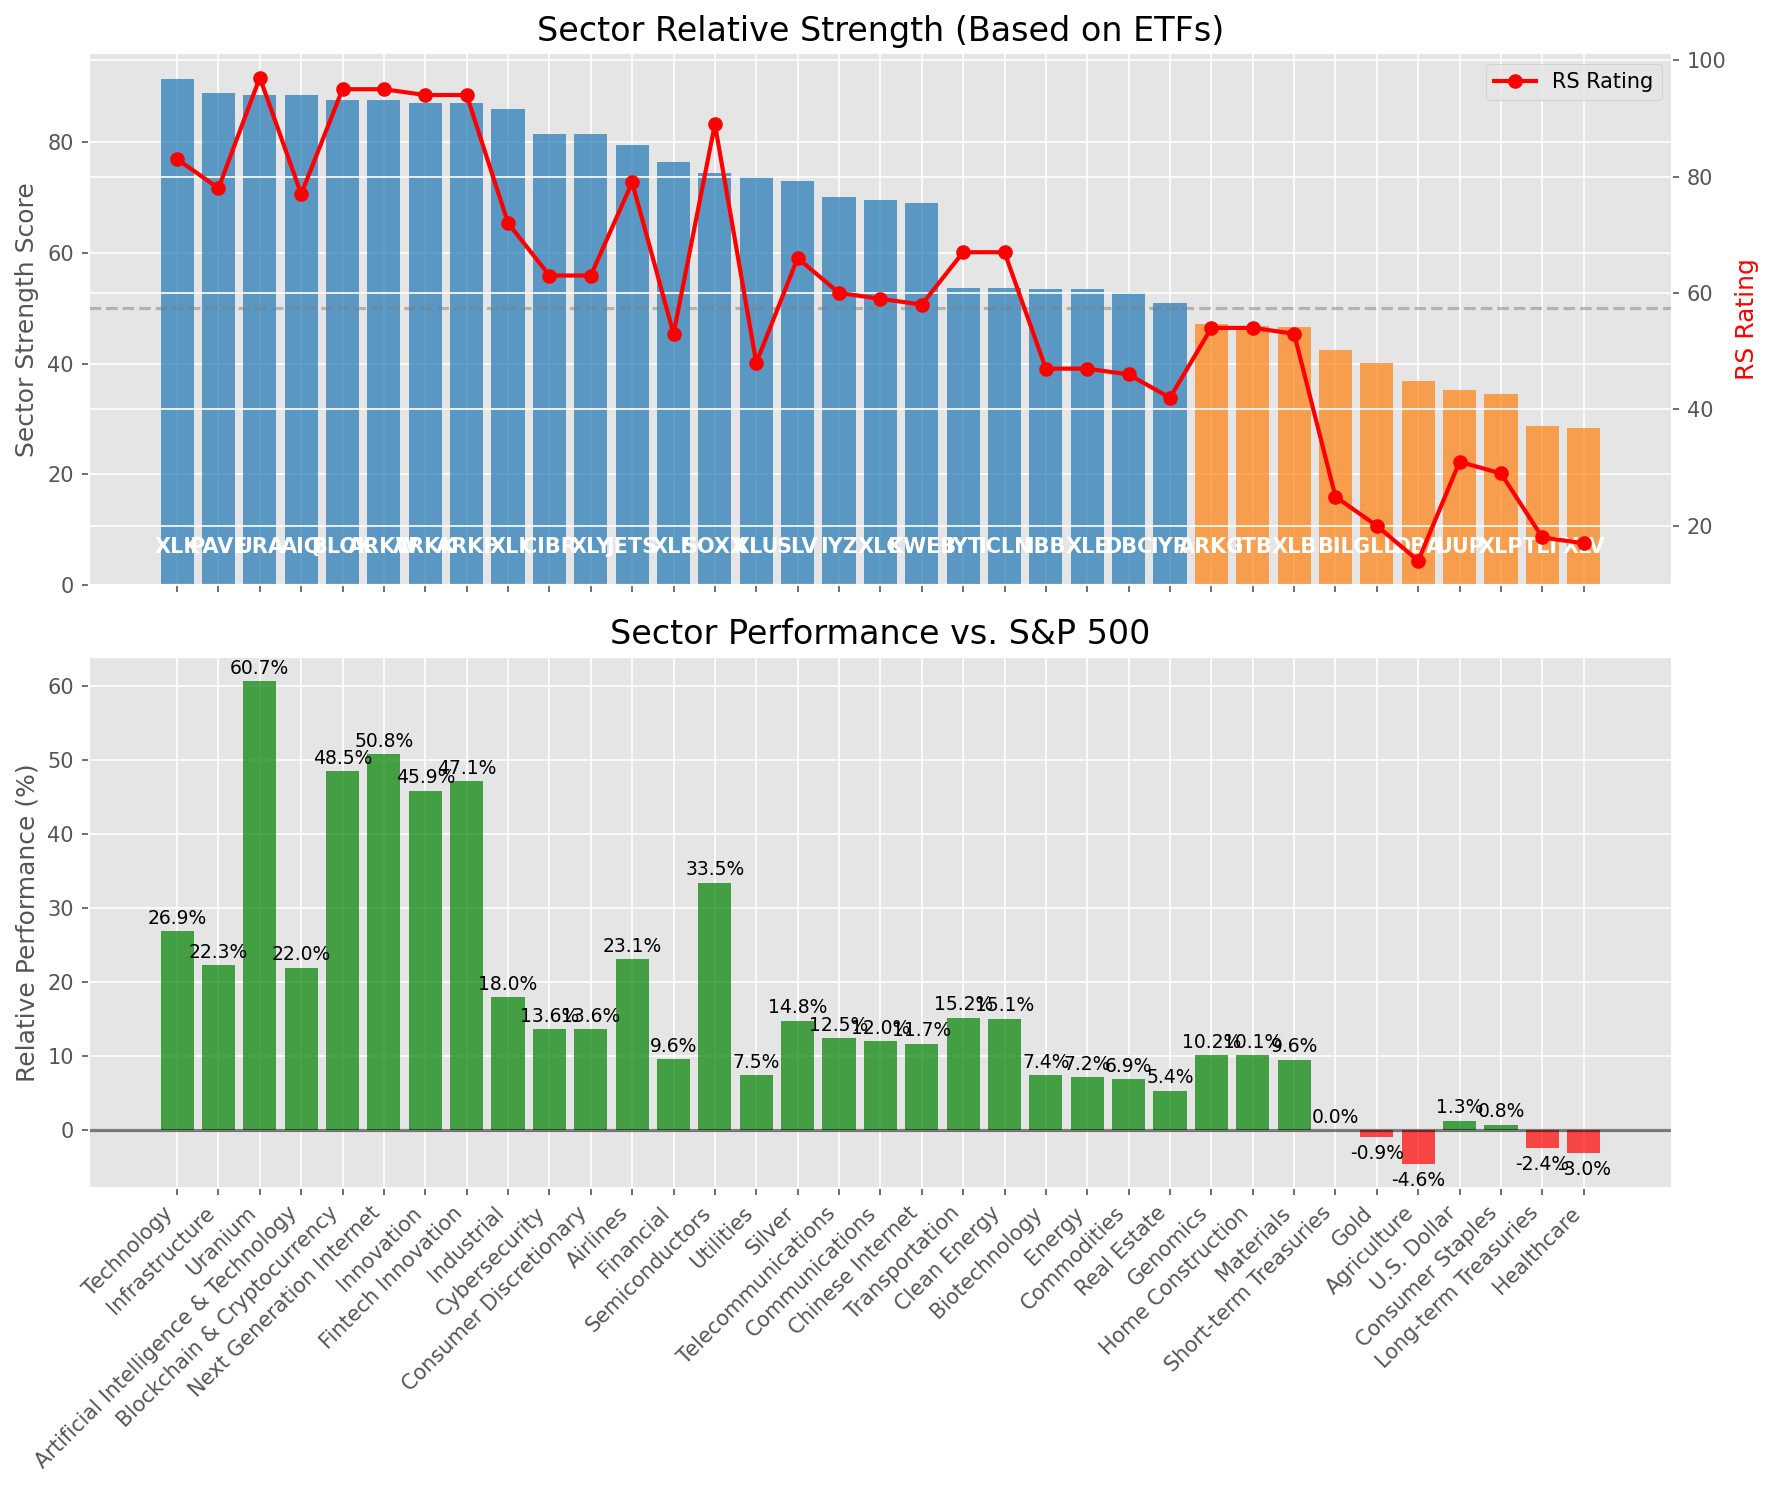
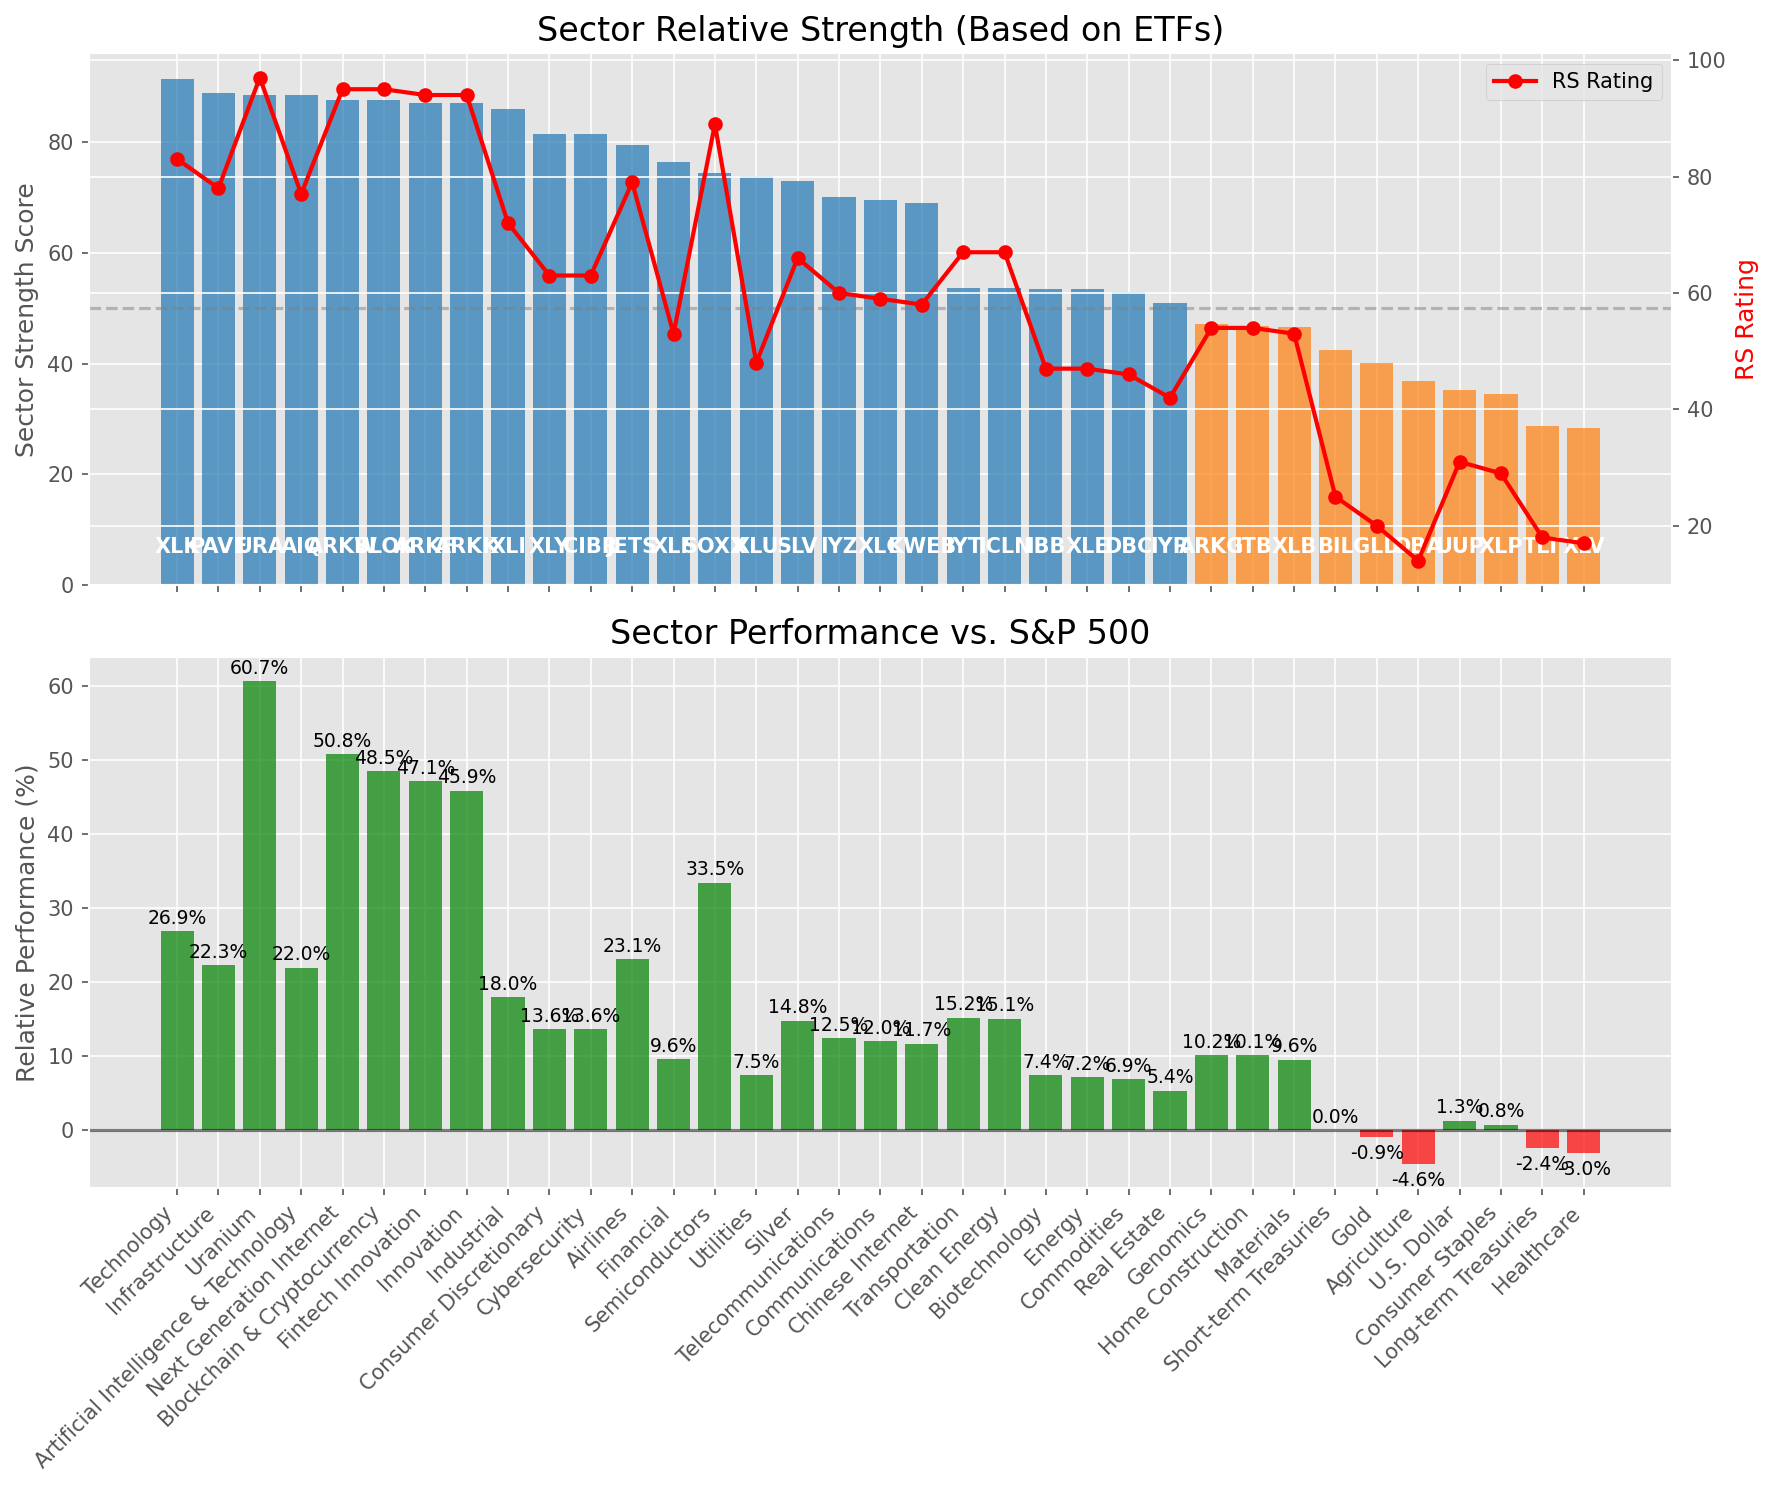
Add market report for 2025-07-29

diff --git a/oneil_relative_strength_report_2025-07-29.md b/oneil_relative_strength_report_2025-07-29.md
@@ -53,13 +53,13 @@ Based on William O'Neil's Relative Strength Methodology
 | [PAVE](https://www.tradingview.com/chart/?symbol=PAVE) | 89.0 | 78.0 | 22.25% | 10d ✓, 50d ✓, 200d ✓ | ↗ | Infrastructure |
 | [URA](https://www.tradingview.com/chart/?symbol=URA) | 88.6 | 97.0 | 60.68% | 10d ✗, 50d ✓, 200d ✓ | ↗ | Uranium |
 | [AIQ](https://www.tradingview.com/chart/?symbol=AIQ) | 88.5 | 77.0 | 21.96% | 10d ✓, 50d ✓, 200d ✓ | ↗ | Artificial Intelligence & Technology |
-| [BLOK](https://www.tradingview.com/chart/?symbol=BLOK) | 87.6 | 95.0 | 48.50% | 10d ✗, 50d ✓, 200d ✓ | ↗ | Blockchain & Cryptocurrency |
 | [ARKW](https://www.tradingview.com/chart/?symbol=ARKW) | 87.6 | 95.0 | 50.78% | 10d ✗, 50d ✓, 200d ✓ | ↗ | Next Generation Internet |
-| [ARKK](https://www.tradingview.com/chart/?symbol=ARKK) | 87.1 | 94.0 | 45.86% | 10d ✗, 50d ✓, 200d ✓ | ↗ | Innovation |
+| [BLOK](https://www.tradingview.com/chart/?symbol=BLOK) | 87.6 | 95.0 | 48.50% | 10d ✗, 50d ✓, 200d ✓ | ↗ | Blockchain & Cryptocurrency |
 | [ARKF](https://www.tradingview.com/chart/?symbol=ARKF) | 87.1 | 94.0 | 47.13% | 10d ✗, 50d ✓, 200d ✓ | ↗ | Fintech Innovation |
+| [ARKK](https://www.tradingview.com/chart/?symbol=ARKK) | 87.1 | 94.0 | 45.86% | 10d ✗, 50d ✓, 200d ✓ | ↗ | Innovation |
 | [XLI](https://www.tradingview.com/chart/?symbol=XLI) | 86.0 | 72.0 | 18.01% | 10d ✓, 50d ✓, 200d ✓ | ↗ | Industrial |
-| [CIBR](https://www.tradingview.com/chart/?symbol=CIBR) | 81.5 | 63.0 | 13.64% | 10d ✓, 50d ✓, 200d ✓ | ↗ | Cybersecurity |
 | [XLY](https://www.tradingview.com/chart/?symbol=XLY) | 81.5 | 63.0 | 13.63% | 10d ✓, 50d ✓, 200d ✓ | ↗ | Consumer Discretionary |
+| [CIBR](https://www.tradingview.com/chart/?symbol=CIBR) | 81.5 | 63.0 | 13.64% | 10d ✓, 50d ✓, 200d ✓ | ↗ | Cybersecurity |
 | [JETS](https://www.tradingview.com/chart/?symbol=JETS) | 79.6 | 79.0 | 23.10% | 10d ✗, 50d ✓, 200d ✓ | ↗ | Airlines |
 | [XLF](https://www.tradingview.com/chart/?symbol=XLF) | 76.5 | 53.0 | 9.61% | 10d ✓, 50d ✓, 200d ✓ | ↗ | Financial |
 | [SOXX](https://www.tradingview.com/chart/?symbol=SOXX) | 74.5 | 89.0 | 33.45% | 10d ✓, 50d ✓, 200d ✓ | ↘ | Semiconductors |
@@ -110,18 +110,18 @@ The following 48 stocks show exceptional relative strength:
 
 | RS Rating | Buy Score | Current Price | Chart | Name | Ticker |
 |-----------|-----------|---------------|-------|------|--------|
-| 100 | 100 | $60.27 | [Chart](https://www.tradingview.com/chart/?symbol=HIMS) | Hims & Hers Health, Inc. | HIMS |
-| 100 | 100 | $220.23 | [Chart](https://www.tradingview.com/chart/?symbol=DAVE) | Dave Inc. Class A Common Stock | DAVE |
-| 100 | 100 | $48.52 | [Chart](https://www.tradingview.com/chart/?symbol=TTMI) | TTM Technologies Inc | TTMI |
 | 100 | 100 | $202.00 | [Chart](https://www.tradingview.com/chart/?symbol=CLS) | Celestica, Inc. | CLS |
 | 100 | 100 | $142.41 | [Chart](https://www.tradingview.com/chart/?symbol=SEZL) | Sezzle Inc. Common Stock | SEZL |
+| 100 | 100 | $60.27 | [Chart](https://www.tradingview.com/chart/?symbol=HIMS) | Hims & Hers Health, Inc. | HIMS |
+| 100 | 100 | $48.52 | [Chart](https://www.tradingview.com/chart/?symbol=TTMI) | TTM Technologies Inc | TTMI |
+| 100 | 100 | $220.23 | [Chart](https://www.tradingview.com/chart/?symbol=DAVE) | Dave Inc. Class A Common Stock | DAVE |
 | 99 | 100 | $75.90 | [Chart](https://www.tradingview.com/chart/?symbol=LIF) | Life360, Inc. Common Stock | LIF |
 | 98 | 100 | $361.21 | [Chart](https://www.tradingview.com/chart/?symbol=TLN) | Talen Energy Corporation Common Stock | TLN |
-| 98 | 100 | $632.67 | [Chart](https://www.tradingview.com/chart/?symbol=GEV) | GE Vernova Inc. | GEV |
 | 98 | 100 | $24.74 | [Chart](https://www.tradingview.com/chart/?symbol=CPS) | Cooper-Standard Automotive Inc. | CPS |
-| 97 | 100 | $34.65 | [Chart](https://www.tradingview.com/chart/?symbol=ATRO) | Astronics Corp | ATRO |
-| 97 | 100 | $199.43 | [Chart](https://www.tradingview.com/chart/?symbol=NET) | Cloudflare, Inc. Class A common stock, par value $0.001 per share | NET |
+| 98 | 100 | $632.67 | [Chart](https://www.tradingview.com/chart/?symbol=GEV) | GE Vernova Inc. | GEV |
 | 97 | 100 | $230.38 | [Chart](https://www.tradingview.com/chart/?symbol=JBL) | Jabil Inc. | JBL |
+| 97 | 100 | $199.43 | [Chart](https://www.tradingview.com/chart/?symbol=NET) | Cloudflare, Inc. Class A common stock, par value $0.001 per share | NET |
+| 97 | 100 | $34.65 | [Chart](https://www.tradingview.com/chart/?symbol=ATRO) | Astronics Corp | ATRO |
 | 97 | 100 | $38.34 | [Chart](https://www.tradingview.com/chart/?symbol=AS) | Amer Sports, Inc. | AS |
 | 97 | 100 | $238.15 | [Chart](https://www.tradingview.com/chart/?symbol=AGX) | Argan, Inc | AGX |
 | 96 | 100 | $105.17 | [Chart](https://www.tradingview.com/chart/?symbol=VRNA) | Verona Pharma plc | VRNA |
@@ -132,15 +132,15 @@ The following 48 stocks show exceptional relative strength:
 | 93 | 100 | $22.30 | [Chart](https://www.tradingview.com/chart/?symbol=MIR) | Mirion Technologies, Inc. | MIR |
 | 92 | 100 | $58.50 | [Chart](https://www.tradingview.com/chart/?symbol=VIK) | Viking Holdings Ltd | VIK |
 | 91 | 100 | $105.31 | [Chart](https://www.tradingview.com/chart/?symbol=APH) | Amphenol Corporation | APH |
-| 91 | 100 | $159.71 | [Chart](https://www.tradingview.com/chart/?symbol=COOP) | Mr. Cooper Group Inc. Common Stock | COOP |
-| 91 | 100 | $42.39 | [Chart](https://www.tradingview.com/chart/?symbol=LTM) | LATAM Airlines Group S.A. American Depositary Shares (each representing two thousand (2,000) shares of Common Stock) | LTM |
 | 91 | 100 | $189.17 | [Chart](https://www.tradingview.com/chart/?symbol=HWM) | Howmet Aerospace Inc. | HWM |
+| 91 | 100 | $42.39 | [Chart](https://www.tradingview.com/chart/?symbol=LTM) | LATAM Airlines Group S.A. American Depositary Shares (each representing two thousand (2,000) shares of Common Stock) | LTM |
+| 91 | 100 | $159.71 | [Chart](https://www.tradingview.com/chart/?symbol=COOP) | Mr. Cooper Group Inc. Common Stock | COOP |
 | 91 | 100 | $94.48 | [Chart](https://www.tradingview.com/chart/?symbol=C) | Citigroup Inc. | C |
-| 90 | 100 | $156.24 | [Chart](https://www.tradingview.com/chart/?symbol=PLTR) | Palantir Technologies Inc. Class A Common Stock | PLTR |
 | 90 | 100 | $48.55 | [Chart](https://www.tradingview.com/chart/?symbol=TOST) | Toast, Inc. | TOST |
+| 90 | 100 | $156.24 | [Chart](https://www.tradingview.com/chart/?symbol=PLTR) | Palantir Technologies Inc. Class A Common Stock | PLTR |
 | 90 | 100 | $19.26 | [Chart](https://www.tradingview.com/chart/?symbol=LQDA) | Liquidia Corporation Common Stock | LQDA |
-| 89 | 100 | $270.31 | [Chart](https://www.tradingview.com/chart/?symbol=GE) | GE Aerospace | GE |
 | 89 | 100 | $79.68 | [Chart](https://www.tradingview.com/chart/?symbol=TPB) | Turning Point Brands, Inc. | TPB |
+| 89 | 100 | $270.31 | [Chart](https://www.tradingview.com/chart/?symbol=GE) | GE Aerospace | GE |
 | 87 | 99 | $48.20 | [Chart](https://www.tradingview.com/chart/?symbol=DRS) | Leonardo DRS, Inc. Common Stock | DRS |
 | 88 | 98 | $184.66 | [Chart](https://www.tradingview.com/chart/?symbol=AWI) | Armstrong World Industries, Inc. | AWI |
 | 85 | 98 | $33.09 | [Chart](https://www.tradingview.com/chart/?symbol=DB) | Deutsche Bank Aktiengesellschaft | DB |
@@ -148,14 +148,14 @@ The following 48 stocks show exceptional relative strength:
 | 85 | 96 | $46.32 | [Chart](https://www.tradingview.com/chart/?symbol=BBIO) | BridgeBio Pharma, Inc. Common Stock | BBIO |
 | 82 | 96 | $20.05 | [Chart](https://www.tradingview.com/chart/?symbol=BCS) | Barclays PLC | BCS |
 | 84 | 94 | $95.83 | [Chart](https://www.tradingview.com/chart/?symbol=NDAQ) | Nasdaq, Inc. Common Stock | NDAQ |
-| 83 | 94 | $287.23 | [Chart](https://www.tradingview.com/chart/?symbol=VEEV) | Veeva Systems Inc. | VEEV |
 | 83 | 94 | $197.23 | [Chart](https://www.tradingview.com/chart/?symbol=ITA) | iShares U.S. Aerospace & Defense ETF | ITA |
+| 83 | 94 | $287.23 | [Chart](https://www.tradingview.com/chart/?symbol=VEEV) | Veeva Systems Inc. | VEEV |
 | 82 | 93 | $72.39 | [Chart](https://www.tradingview.com/chart/?symbol=ULS) | UL Solutions Inc. | ULS |
 | 81 | 93 | $52.77 | [Chart](https://www.tradingview.com/chart/?symbol=BTI) | British American Tobacco p.l.c. American Depositary Shares, American Depositary Shares, each representing one Ordinary Share | BTI |
 | 81 | 93 | $434.48 | [Chart](https://www.tradingview.com/chart/?symbol=CYBR) | CyberArk Software Ltd. | CYBR |
 | 81 | 92 | $40.51 | [Chart](https://www.tradingview.com/chart/?symbol=ZLAB) | Zai Lab Limited American Depositary Shares | ZLAB |
-| 80 | 92 | $390.67 | [Chart](https://www.tradingview.com/chart/?symbol=LPLA) | LPL Financial Holdings Inc. | LPLA |
 | 80 | 92 | $141.80 | [Chart](https://www.tradingview.com/chart/?symbol=VSEC) | VSE Corp | VSEC |
+| 80 | 92 | $390.67 | [Chart](https://www.tradingview.com/chart/?symbol=LPLA) | LPL Financial Holdings Inc. | LPLA |
 | 80 | 90 | $85.74 | [Chart](https://www.tradingview.com/chart/?symbol=BYD) | Boyd Gaming Corporation | BYD |
 | 80 | 90 | $49.34 | [Chart](https://www.tradingview.com/chart/?symbol=FHI) | Federated Hermes, Inc. | FHI |
 
@@ -170,21 +170,21 @@ The following 80 stocks show deteriorating relative strength:
 |-----------|------------|---------------|-------|------|--------|
 | 1 | 100 | $23.70 | [Chart](https://www.tradingview.com/chart/?symbol=TECS) | Direxion Daily Technology Bear 3x Shares | TECS |
 | 1 | 100 | $12.29 | [Chart](https://www.tradingview.com/chart/?symbol=NVDS) | Investment Managers Series Trust II Tradr 1.5X Short NVDA Daily ETF | NVDS |
+| 2 | 100 | $54.04 | [Chart](https://www.tradingview.com/chart/?symbol=GMED) | GLOBUS MEDICAL INC | GMED |
+| 2 | 100 | $14.49 | [Chart](https://www.tradingview.com/chart/?symbol=CLBT) | Cellebrite DI Ltd. Class A Ordinary Shares | CLBT |
 | 2 | 100 | $40.67 | [Chart](https://www.tradingview.com/chart/?symbol=TWM) | ProShares UltraShort Russell2000 | TWM |
 | 2 | 100 | $40.17 | [Chart](https://www.tradingview.com/chart/?symbol=SDOW) | ProShares UltraPro Short Dow 30 | SDOW |
 | 2 | 100 | $72.20 | [Chart](https://www.tradingview.com/chart/?symbol=LNTH) | Lantheus Holdings, Inc | LNTH |
-| 2 | 100 | $54.04 | [Chart](https://www.tradingview.com/chart/?symbol=GMED) | GLOBUS MEDICAL INC | GMED |
 | 2 | 100 | $17.80 | [Chart](https://www.tradingview.com/chart/?symbol=GPCR) | Structure Therapeutics Inc. American Depositary Shares | GPCR |
-| 2 | 100 | $14.49 | [Chart](https://www.tradingview.com/chart/?symbol=CLBT) | Cellebrite DI Ltd. Class A Ordinary Shares | CLBT |
+| 3 | 100 | $48.13 | [Chart](https://www.tradingview.com/chart/?symbol=SLVM) | Sylvamo Corporation | SLVM |
 | 3 | 100 | $64.46 | [Chart](https://www.tradingview.com/chart/?symbol=SKY) | Champion Homes, Inc. | SKY |
 | 3 | 100 | $14.71 | [Chart](https://www.tradingview.com/chart/?symbol=PLSE) | Pulse Biosciences, Inc Common Stock (DE) | PLSE |
-| 3 | 100 | $48.13 | [Chart](https://www.tradingview.com/chart/?symbol=SLVM) | Sylvamo Corporation | SLVM |
 | 3 | 100 | $22.75 | [Chart](https://www.tradingview.com/chart/?symbol=HELE) | Helen Of Troy Ltd | HELE |
-| 4 | 100 | $129.59 | [Chart](https://www.tradingview.com/chart/?symbol=INSP) | Inspire Medical Systems, Inc. | INSP |
+| 4 | 100 | $23.40 | [Chart](https://www.tradingview.com/chart/?symbol=DUST) | Direxion Daily Gold Miners Index Bear 2X Shares | DUST |
 | 4 | 100 | $16.43 | [Chart](https://www.tradingview.com/chart/?symbol=BTAL) | AGF U.S. Market Neutral Anti-Beta Fund | BTAL |
 | 4 | 100 | $12.61 | [Chart](https://www.tradingview.com/chart/?symbol=PSFE) | Paysafe Limited | PSFE |
 | 4 | 100 | $16.23 | [Chart](https://www.tradingview.com/chart/?symbol=CSTL) | Castle Biosciences, Inc. Common Stock | CSTL |
-| 4 | 100 | $23.40 | [Chart](https://www.tradingview.com/chart/?symbol=DUST) | Direxion Daily Gold Miners Index Bear 2X Shares | DUST |
+| 4 | 100 | $129.59 | [Chart](https://www.tradingview.com/chart/?symbol=INSP) | Inspire Medical Systems, Inc. | INSP |
 | 5 | 100 | $20.75 | [Chart](https://www.tradingview.com/chart/?symbol=ERY) | Direxion Daily Energy Bear 2X Shares | ERY |
 | 6 | 100 | $38.82 | [Chart](https://www.tradingview.com/chart/?symbol=SH) | ProShares Short S&P500 | SH |
 | 6 | 100 | $10.18 | [Chart](https://www.tradingview.com/chart/?symbol=IMXI) | International Money Express, Inc. | IMXI |
@@ -230,9 +230,9 @@ The following 80 stocks show deteriorating relative strength:
 | 28 | 82 | $50.74 | [Chart](https://www.tradingview.com/chart/?symbol=POWI) | Power Integrations Inc | POWI |
 | 19 | 81 | $36.34 | [Chart](https://www.tradingview.com/chart/?symbol=MSTX) | Tidal Trust II Defiance Daily Target 2x Long MSTR ETF | MSTX |
 | 22 | 81 | $45.03 | [Chart](https://www.tradingview.com/chart/?symbol=BILL) | BILL Holdings, Inc. | BILL |
-| 31 | 80 | $16.40 | [Chart](https://www.tradingview.com/chart/?symbol=XP) | XP Inc. Class A Common Stock | XP |
 | 24 | 79 | $239.63 | [Chart](https://www.tradingview.com/chart/?symbol=WDAY) | Workday, Inc. Class A Common Stock | WDAY |
 | 29 | 79 | $31.26 | [Chart](https://www.tradingview.com/chart/?symbol=MBIN) | Merchants Bancorp Common Stock | MBIN |
+| 31 | 79 | $16.40 | [Chart](https://www.tradingview.com/chart/?symbol=XP) | XP Inc. Class A Common Stock | XP |
 | 39 | 78 | $17.16 | [Chart](https://www.tradingview.com/chart/?symbol=SVOL) | Simplify Volatility Premium ETF | SVOL |
 | 27 | 76 | $16.25 | [Chart](https://www.tradingview.com/chart/?symbol=CHCT) | Community Healthcare Trust Incorporated Common Stock, $0.01 par value per share | CHCT |
 | 32 | 76 | $13.06 | [Chart](https://www.tradingview.com/chart/?symbol=ARCT) | Arcturus Therapeutics Holdings Inc. Common Stock | ARCT |
@@ -242,7 +242,7 @@ The following 80 stocks show deteriorating relative strength:
 | 34 | 72 | $22.11 | [Chart](https://www.tradingview.com/chart/?symbol=TDC) | TERADATA CORPORATION | TDC |
 | 32 | 71 | $214.71 | [Chart](https://www.tradingview.com/chart/?symbol=AMT) | American Tower Corporation | AMT |
 | 30 | 70 | $132.31 | [Chart](https://www.tradingview.com/chart/?symbol=INGR) | Ingredion Incorporated | INGR |
-| 34 | 70 | $77.68 | [Chart](https://www.tradingview.com/chart/?symbol=MET) | MetLife, Inc. | MET |
+| 34 | 69 | $77.68 | [Chart](https://www.tradingview.com/chart/?symbol=MET) | MetLife, Inc. | MET |
 | 36 | 69 | $90.01 | [Chart](https://www.tradingview.com/chart/?symbol=LPX) | Louisiana-Pacific Corp. | LPX |
 | 39 | 69 | $55.74 | [Chart](https://www.tradingview.com/chart/?symbol=ALRM) | Alarm.com Holdings, Inc. | ALRM |
 | 38 | 65 | $12.63 | [Chart](https://www.tradingview.com/chart/?symbol=NU) | Nu Holdings Ltd. | NU |
